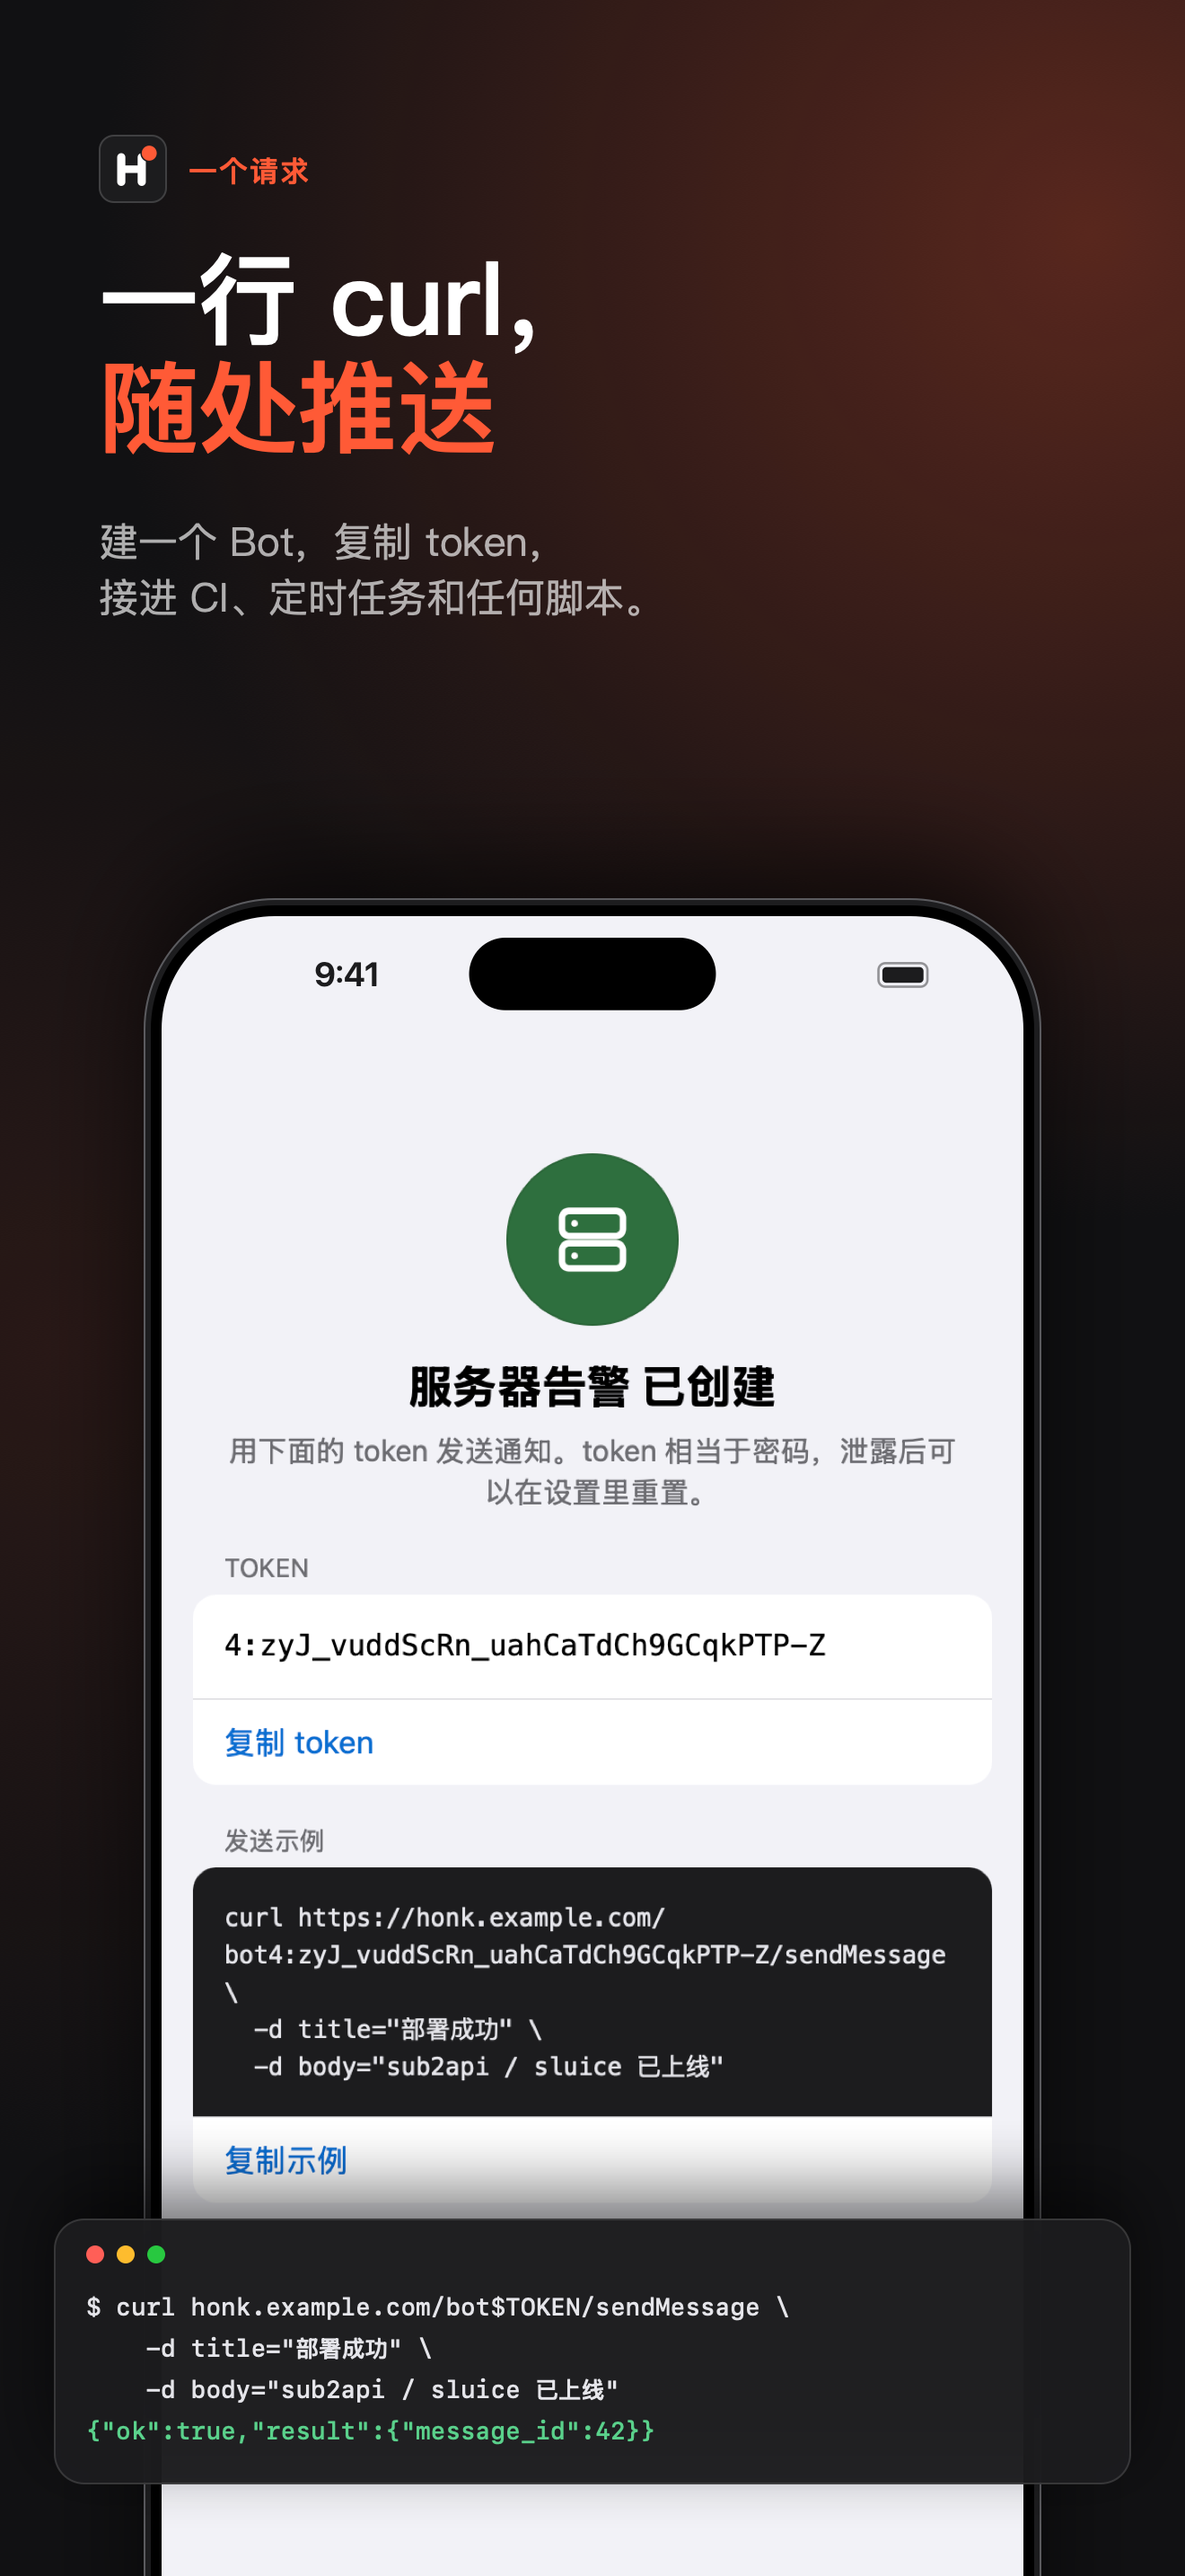
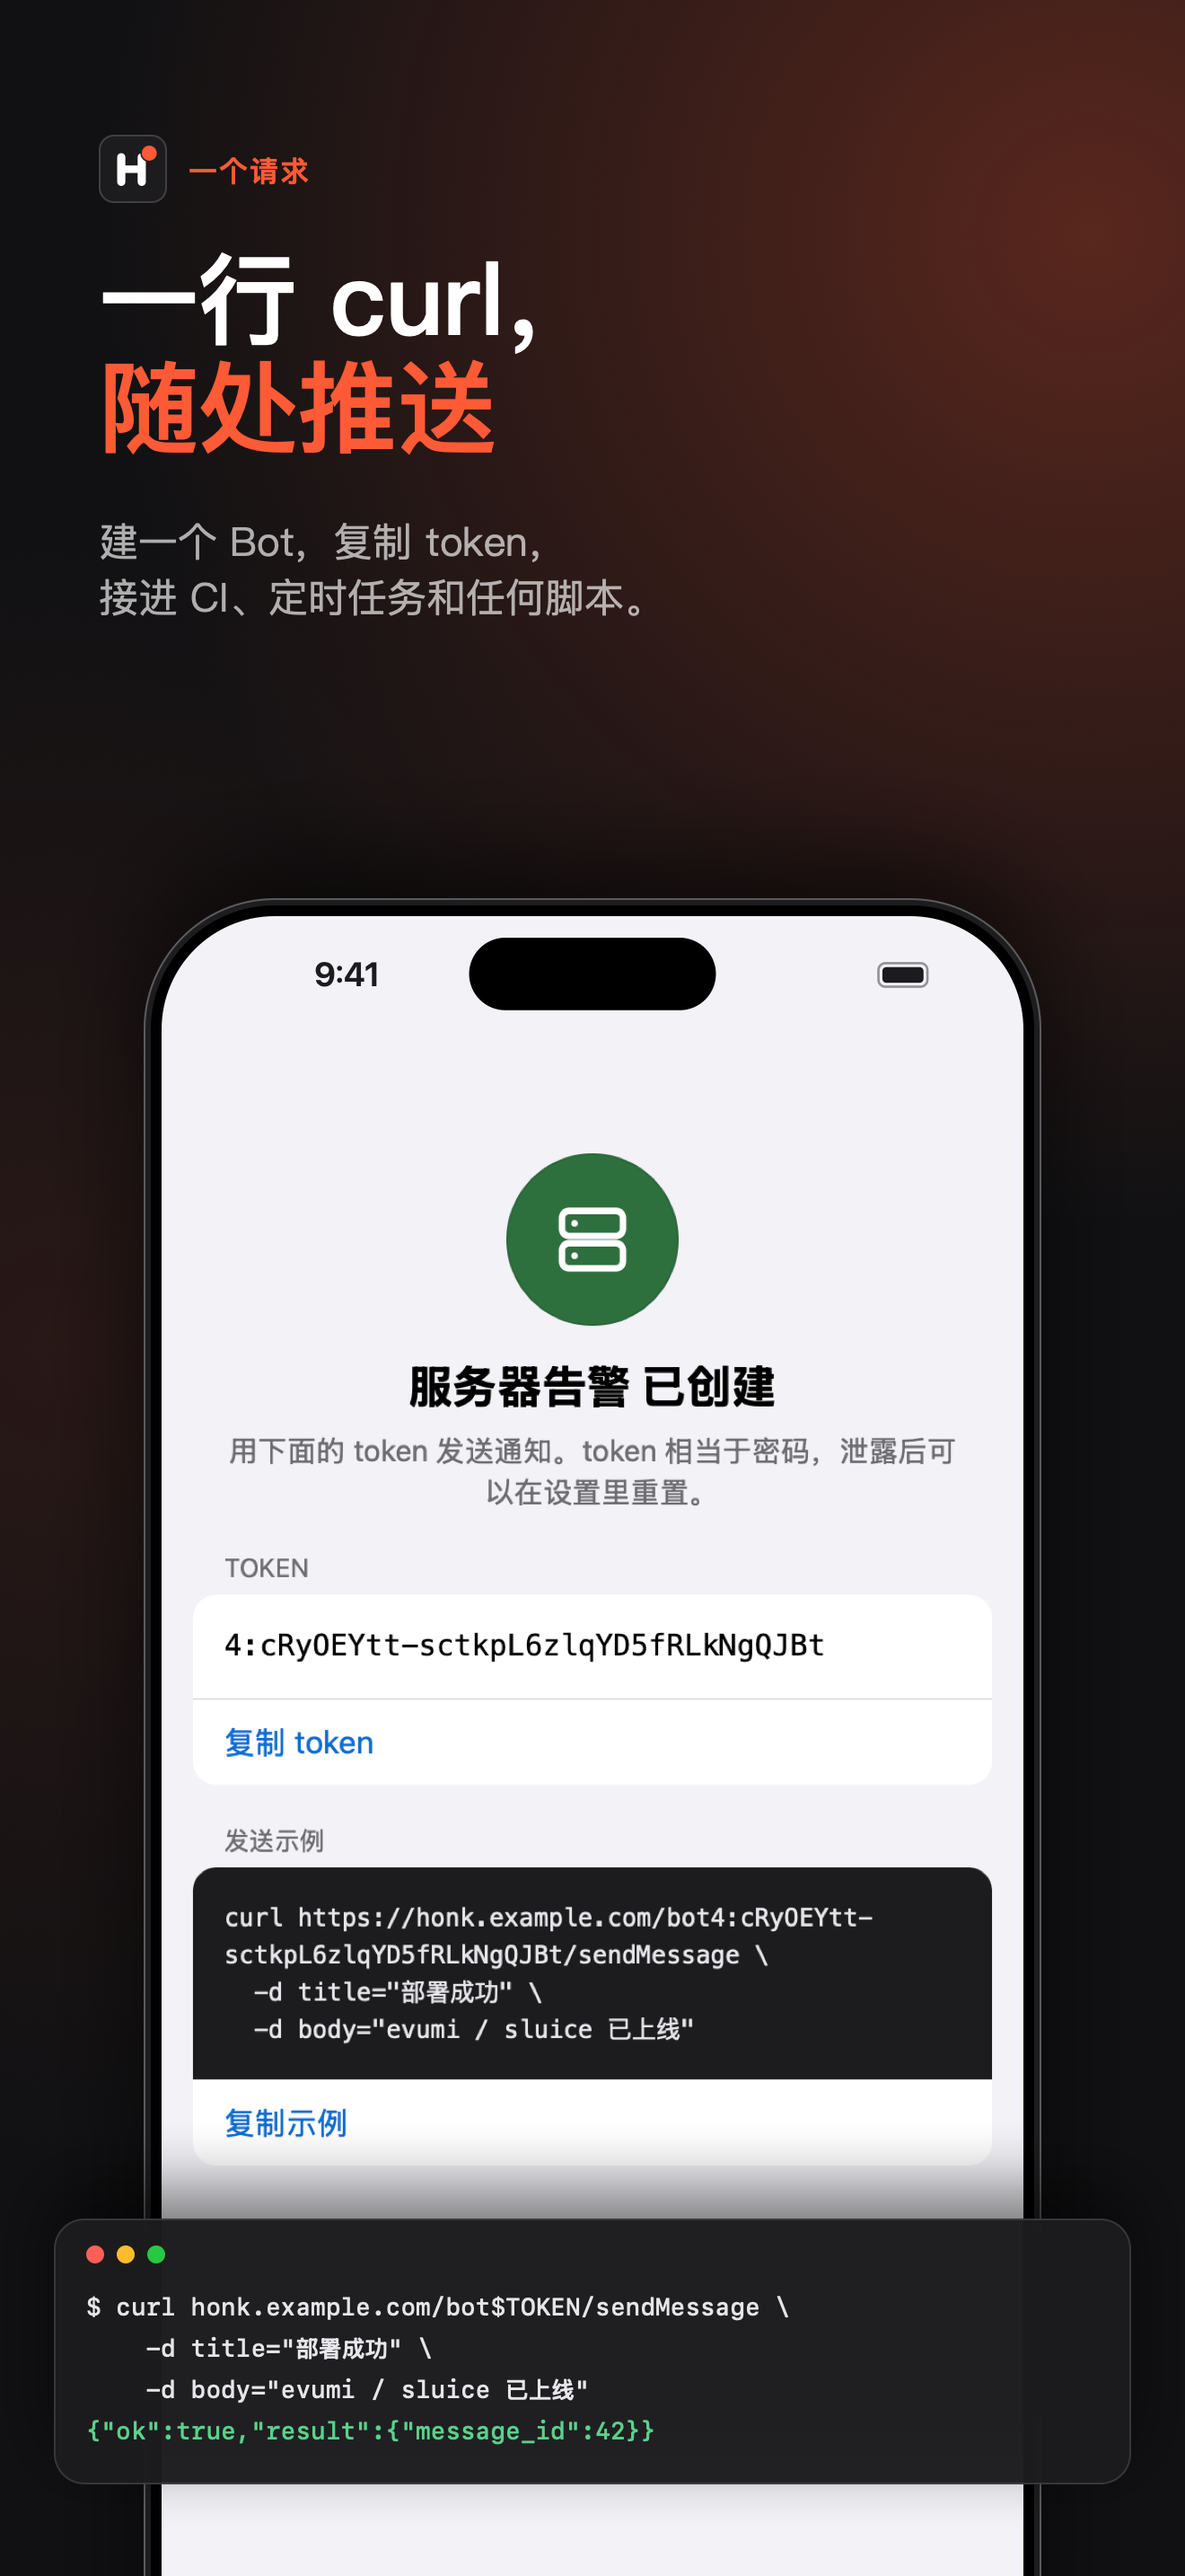
App Store images: evumi / sluice instead of sub2api / sluice
The demo data, the curl example and the drawn lock screen name the
service evumi; the screenshots are recaptured and re-rendered (RGB).

diff --git a/scripts/brand/render.swift b/scripts/brand/render.swift
@@ -297,8 +297,8 @@ let shots: [Shot] = [
          subtitle: ["en": "Create a bot, copy its token, and call it from CI, cron or anywhere else.", "zh-Hans": "建一个 Bot，复制 token，\n接进 CI、定时任务和任何脚本。"],
          screen: "created.png", navBar: (106, 0xf2f2f7, [:]),
          terminal: [
-            "en": [("$ curl honk.example.com/bot$TOKEN/sendMessage \\", 0xe5e5ea), ("    -d title=\"Deployed\" \\", 0xe5e5ea), ("    -d body=\"sub2api / sluice is live\"", 0xe5e5ea), ("{\"ok\":true,\"result\":{\"message_id\":42}}", 0x5ad18b)],
-            "zh-Hans": [("$ curl honk.example.com/bot$TOKEN/sendMessage \\", 0xe5e5ea), ("    -d title=\"部署成功\" \\", 0xe5e5ea), ("    -d body=\"sub2api / sluice 已上线\"", 0xe5e5ea), ("{\"ok\":true,\"result\":{\"message_id\":42}}", 0x5ad18b)],
+            "en": [("$ curl honk.example.com/bot$TOKEN/sendMessage \\", 0xe5e5ea), ("    -d title=\"Deployed\" \\", 0xe5e5ea), ("    -d body=\"evumi / sluice is live\"", 0xe5e5ea), ("{\"ok\":true,\"result\":{\"message_id\":42}}", 0x5ad18b)],
+            "zh-Hans": [("$ curl honk.example.com/bot$TOKEN/sendMessage \\", 0xe5e5ea), ("    -d title=\"部署成功\" \\", 0xe5e5ea), ("    -d body=\"evumi / sluice 已上线\"", 0xe5e5ea), ("{\"ok\":true,\"result\":{\"message_id\":42}}", 0x5ad18b)],
          ]),
     Shot(file: "05-dark",
          kicker: ["en": "DARK MODE", "zh-Hans": "深色模式"],
@@ -362,7 +362,7 @@ func drawLockScreen(_ cx: CGContext, _ r: CGRect, lang: String) {
     let notes = [
         Note(app: en ? "Server Alerts" : "服务器告警", symbol: "exclamationmark.triangle", color: 0xc2410c, title: "hk-edge-02 CPU 92%",
              body: en ? "Above the 85% threshold for 5 minutes." : "持续 5 分钟超过阈值 85%，负载 7.8。", time: en ? "now" : "现在", flag: en ? "TIME SENSITIVE" : "时效性通知"),
-        Note(app: en ? "Berth Deploys" : "Berth 部署", symbol: "ferry", color: 0x1c1c1e, title: en ? "Deployed: sub2api / sluice" : "部署成功：sub2api / sluice",
+        Note(app: en ? "Berth Deploys" : "Berth 部署", symbol: "ferry", color: 0x1c1c1e, title: en ? "Deployed: evumi / sluice" : "部署成功：evumi / sluice",
              body: en ? "Live in production." : "production 环境的部署已上线。", time: en ? "2m ago" : "2 分钟前", flag: nil),
         Note(app: en ? "CI Builds" : "CI 构建", symbol: "checkmark.circle", color: 0x2f6f3e, title: en ? "main #482 passed" : "main #482 通过",
              body: en ? "3m 12s · all 128 tests passed" : "3 分 12 秒 · 128 个测试全部通过", time: en ? "8m ago" : "8 分钟前", flag: nil),

diff --git a/app/src/demo.ts b/app/src/demo.ts
@@ -38,8 +38,8 @@ const messages: Message[] = [
   }),
   msg(2, 75, { title: "hk-edge-02 CPU 92%", body: L("持续 5 分钟超过阈值 85%，负载 7.8。", "Above the 85% threshold for 5 minutes, load 7.8.") }),
   msg(1, 38, {
-    title: L("部署成功", "Deployed"), body: L("部署成功：sub2api / sluice (production) 已上线。", "sub2api / sluice is live in production."), html: card,
-    data: JSON.stringify({ status: L("已上线", "Live"), dot: "#1a9e6e", service: "sub2api / sluice", env: "production", deploy_id: "dep_w3tn2cnlrvwtspmjmpol", url: "https://example.com" }),
+    title: L("部署成功", "Deployed"), body: L("部署成功：evumi / sluice (production) 已上线。", "evumi / sluice is live in production."), html: card,
+    data: JSON.stringify({ status: L("已上线", "Live"), dot: "#1a9e6e", service: "evumi / sluice", env: "production", deploy_id: "dep_w3tn2cnlrvwtspmjmpol", url: "https://example.com" }),
   }),
   msg(1, 25, { title: L("每日部署汇总", "Daily deploy summary"), body: L("今天共 6 次部署，5 次成功，1 次回滚。", "6 deploys today: 5 succeeded, 1 rolled back.") }),
 ];

diff --git a/app/src/format.ts b/app/src/format.ts
@@ -59,5 +59,5 @@ export function levelLabel(l: string): string {
 /** The curl example for a bot. */
 export function curlExample(gateway: string, token: string): string {
   const base = gateway.endsWith("/") ? gateway : gateway + "/";
-  return `curl ${base}bot${token}/sendMessage \\\n  -d title="${tr("部署成功")}" \\\n  -d body="${tr("sub2api / sluice 已上线")}"`;
+  return `curl ${base}bot${token}/sendMessage \\\n  -d title="${tr("部署成功")}" \\\n  -d body="${tr("evumi / sluice 已上线")}"`;
 }

diff --git a/app/src/i18n.ts b/app/src/i18n.ts
@@ -93,7 +93,7 @@ const EN: Record<string, string> = {
   "复制示例": "Copy example",
   "进入会话": "Open chat",
   "部署成功": "Deployed",
-  "sub2api / sluice 已上线": "sub2api / sluice is live",
+  "evumi / sluice 已上线": "evumi / sluice is live",
   // bot settings
   "重置 token？": "Reset the token?",
   "旧 token 立即失效，用到它的发送方需要换成新的。": "The old token stops working at once; senders using it need the new one.",
